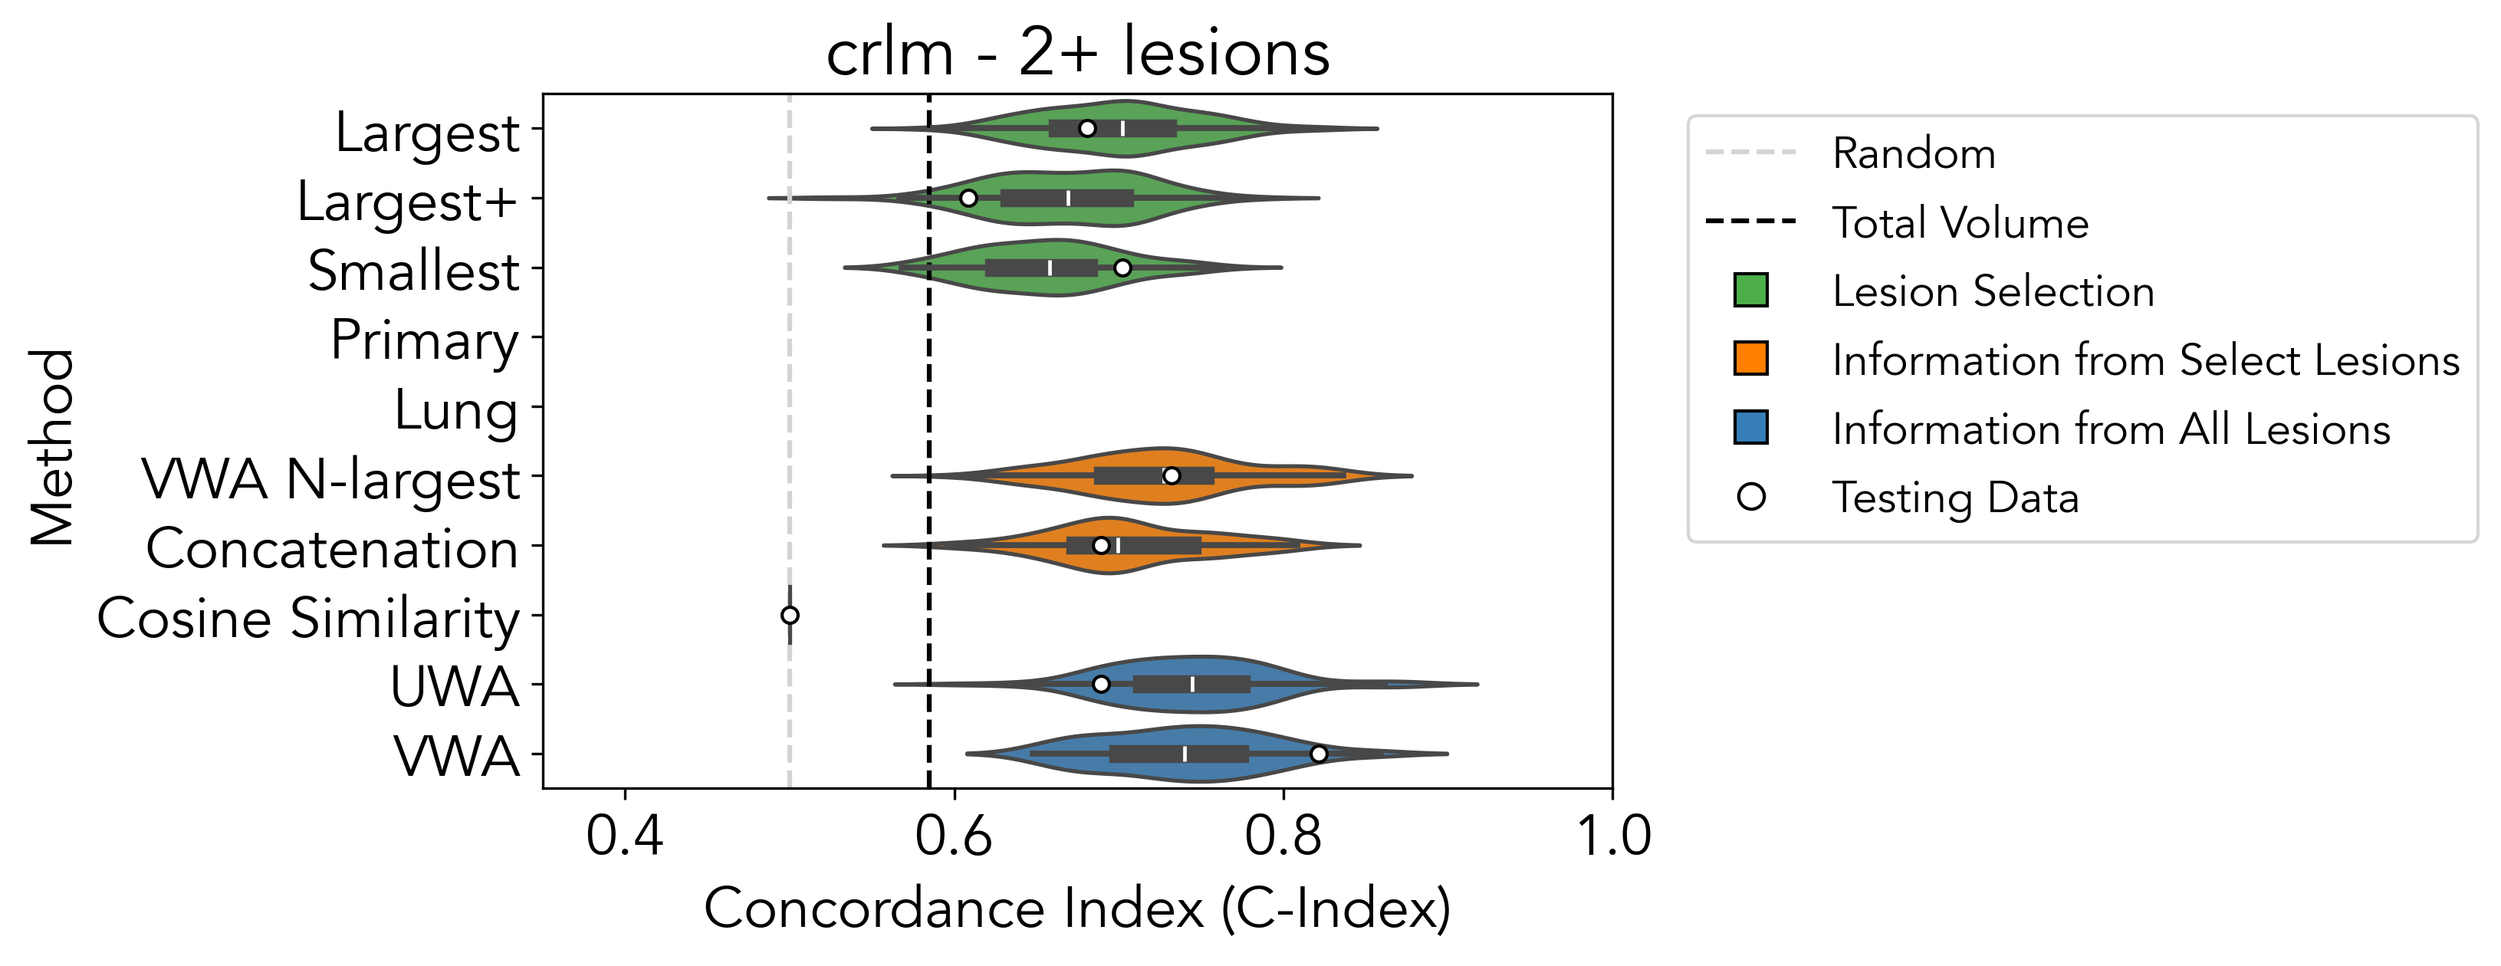
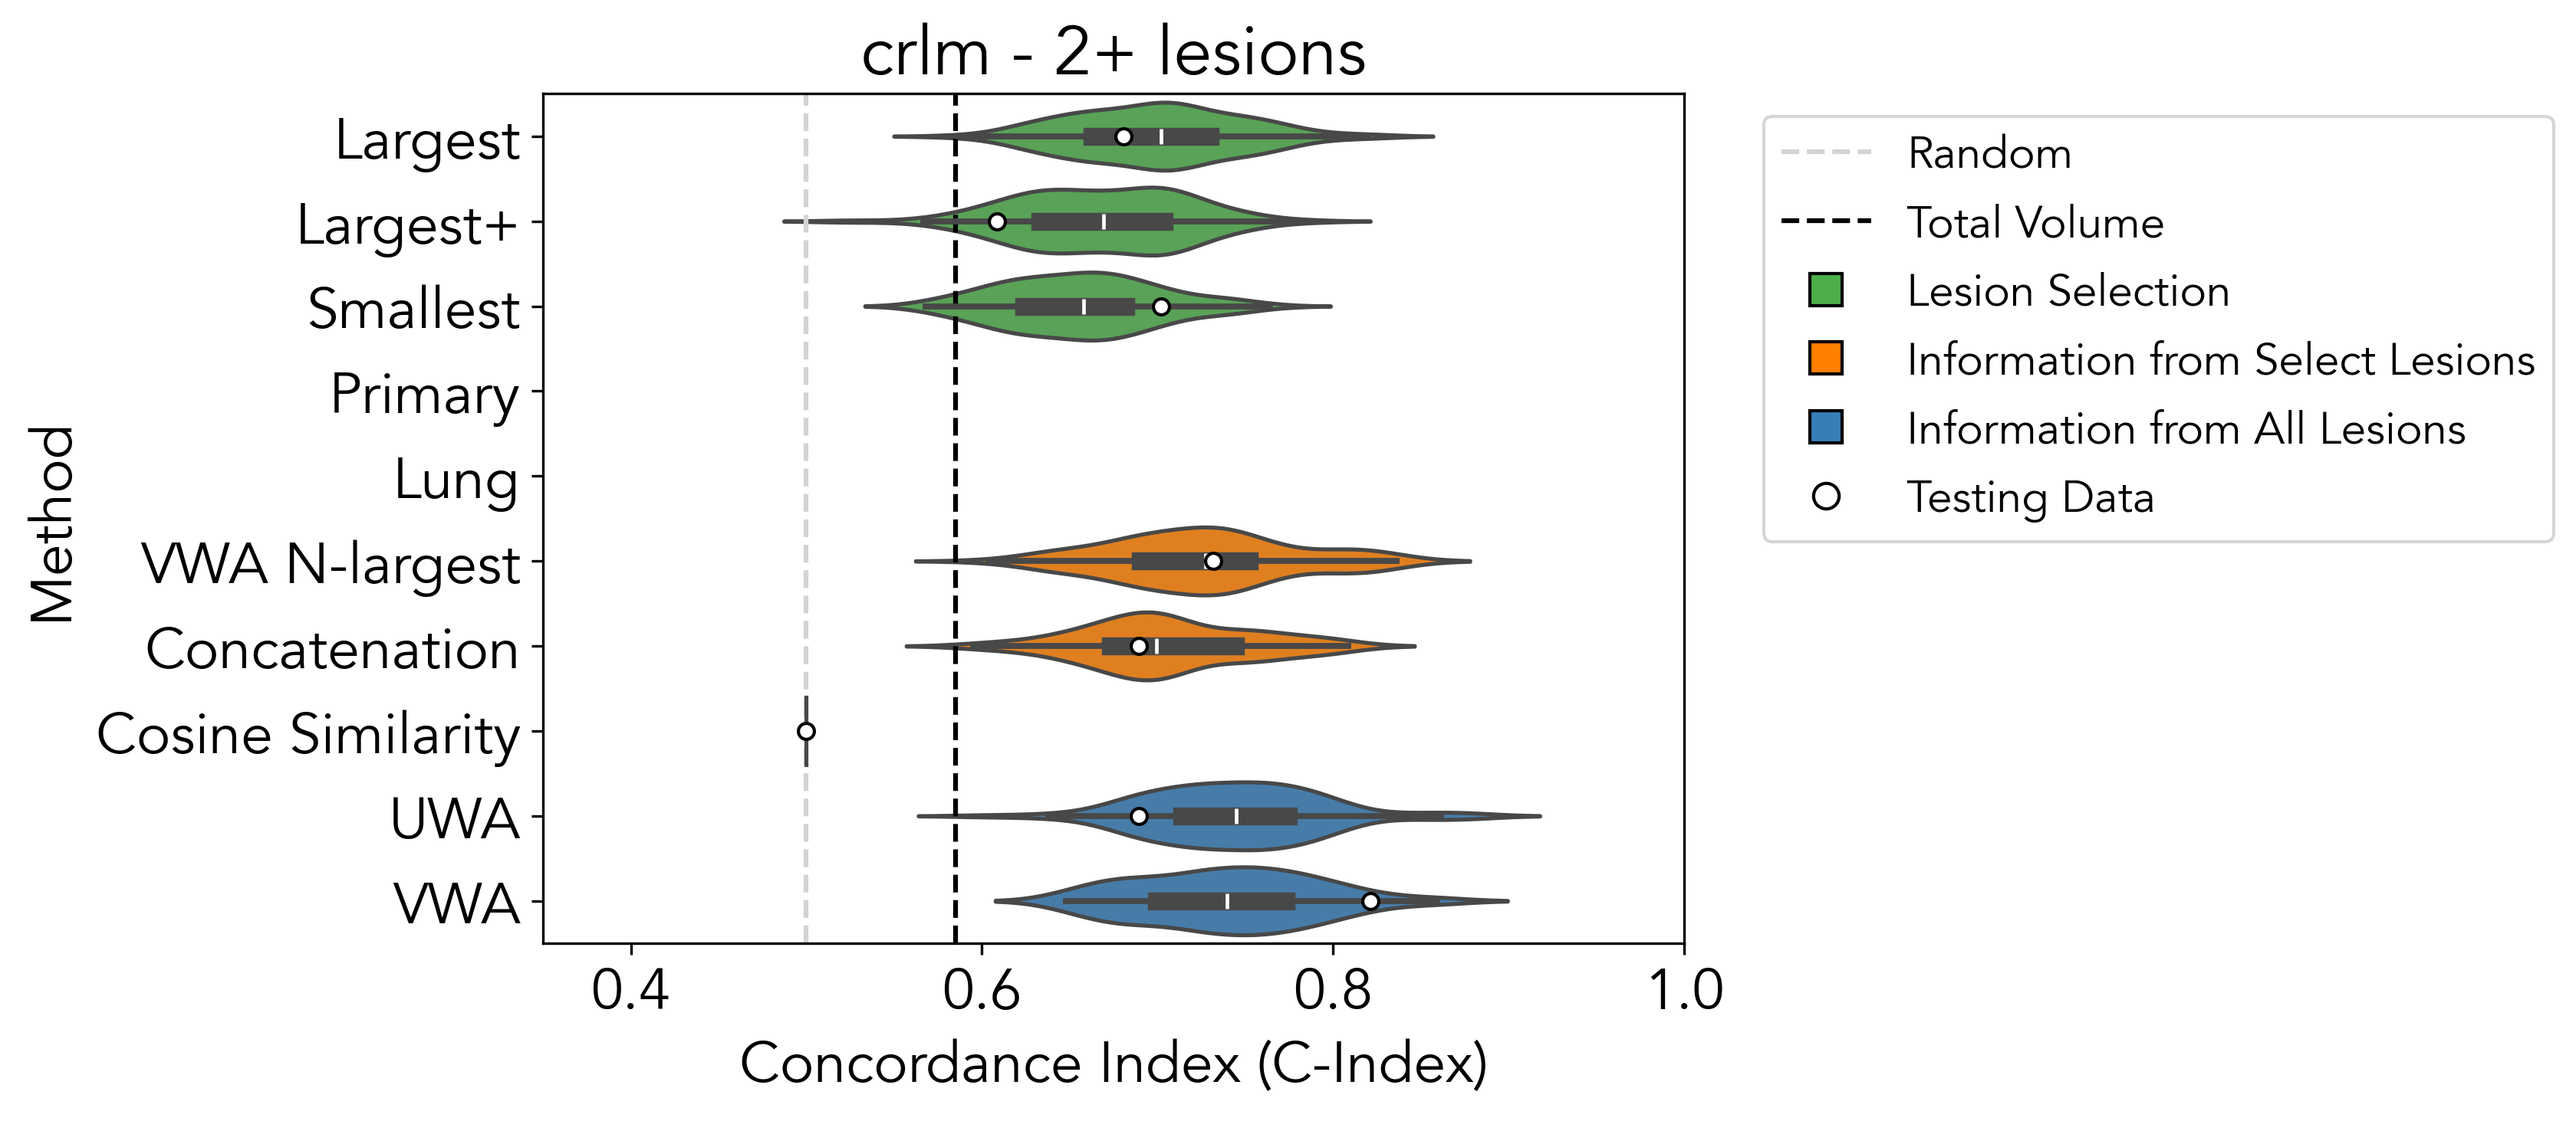
generate figures

diff --git a/pipe.py b/pipe.py
@@ -16,7 +16,7 @@ import matplotlib.pyplot as plt
 import seaborn as sns
 from matplotlib.lines import Line2D
 from scipy.stats import ks_2samp
-
+# %%
 # custom functions
 import Code.misc_splitting as ms
 import Code.lesion_selection as ls
@@ -212,6 +212,65 @@ for dat in dataName:
         plt.ylabel('Method')
         plt.title(dat+' - '+str(num)+('+ lesions'))
         plt.savefig('Results/Figures/'+dat+'_min'+str(num)+'_CPH.png',dpi=300,bbox_inches='tight')
+        plt.show()
+
+# %% SELECTIVE PLOTTING FOR SLIDES
+
+dataName = ['radcure','sarc021','crlm']
+numLesions = [1,2,3]
+
+# univariable results for total volume of all ROIs and OS
+uni_dict = {
+            'radcure' : [0.626,0.632,0.636],
+            'crlm'    : [0.589,0.585,0.588],
+            'sarc021' : [0.609,0.607,0.569]}
+
+for dat in dataName:
+    for num in numLesions:
+        # load data
+        all_data = pd.read_csv('Results/Spreadsheets/'+dat+'_min'+str(num)+'_CPH_training.csv')
+        test_df = pd.read_csv('Results/Spreadsheets/'+dat+'_min'+str(num)+'_CPH_testing.csv')
+
+        if dat != 'radcure':
+            all_data['primary'] = np.nan 
+            test_df['primary'] = np.nan
+        if dat != 'sarc021':
+            all_data['lung'] = np.nan 
+            test_df['lung'] = np.nan
+        if num == 1:
+            all_data['cosine'] = np.nan
+            test_df['cosine'] = np.nan
+
+        all_data = all_data[['largest','concat','VWA']]
+        all_data.columns = ['Largest','Concatenation','Volume-Weighted\n Average']
+        test_df = test_df[['largest','concat','VWA']]
+        test_df.columns = ['Largest','Concatenation','Volume-Weighted\n Average']
+
+        # plotting params
+        my_pal = ['#4daf4a','#ff7f00','#377eb8']
+        plt.rcParams.update({'font.size': 18})
+        plt.rcParams["font.family"] = "Avenir"
+        plt.figure(figsize=(7, 3))
+        plt.axvline(x=uni_dict[dat][num-1],linestyle='--',color='k')
+        plt.axvline(x=0.5,linestyle='--',color='lightgray')
+        ax = sns.violinplot(data=all_data,orient='h',palette=my_pal)
+        sns.stripplot(data=test_df,orient='h',edgecolor='k', linewidth=1, palette=['white'] * 4,ax=ax)
+        
+        # Modify the legend
+        legend_elements = [Line2D([0], [0], linestyle='--', color='lightgrey', label='Random'),
+                           Line2D([0], [0], linestyle='--', color='k', label='Total Volume'),
+                           Line2D([0], [0], marker='s', color='w', label='Lesion Selection', markeredgecolor='k',markerfacecolor='#4daf4a', markersize=10,),
+                           Line2D([0], [0], marker='s', color='w', label='Information from Select Lesions', markeredgecolor='k',markerfacecolor='#ff7f00', markersize=10),
+                           Line2D([0], [0], marker='s', color='w', label='Information from All Lesions', markeredgecolor='k',markerfacecolor='#377eb8', markersize=10),
+                           Line2D([0], [0], marker='o', color='w', label='Testing Data', markeredgecolor='k',markerfacecolor='w', markersize=8)]
+        
+        plt.legend(handles=legend_elements, bbox_to_anchor=(1.05, 1), loc='upper left',fontsize=14)
+        
+        plt.xlabel('Concordance Index (C-Index)')
+        plt.xlim([0.35,1])
+        plt.ylabel('Method')
+        plt.title(dat+' - '+str(num)+('+ lesions'))
+        plt.savefig('Results/Figures/MOD'+dat+'_min'+str(num)+'_CPH.png',dpi=300,bbox_inches='tight')
         plt.show()
 
 
